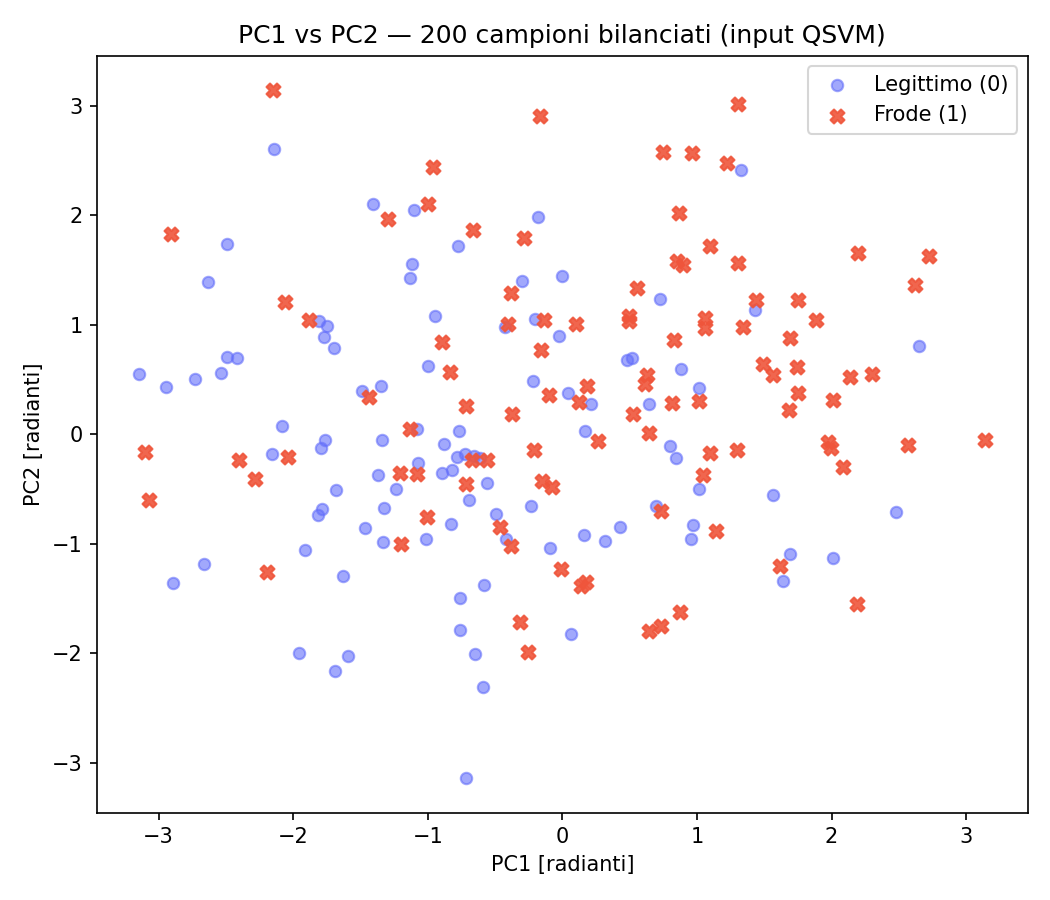
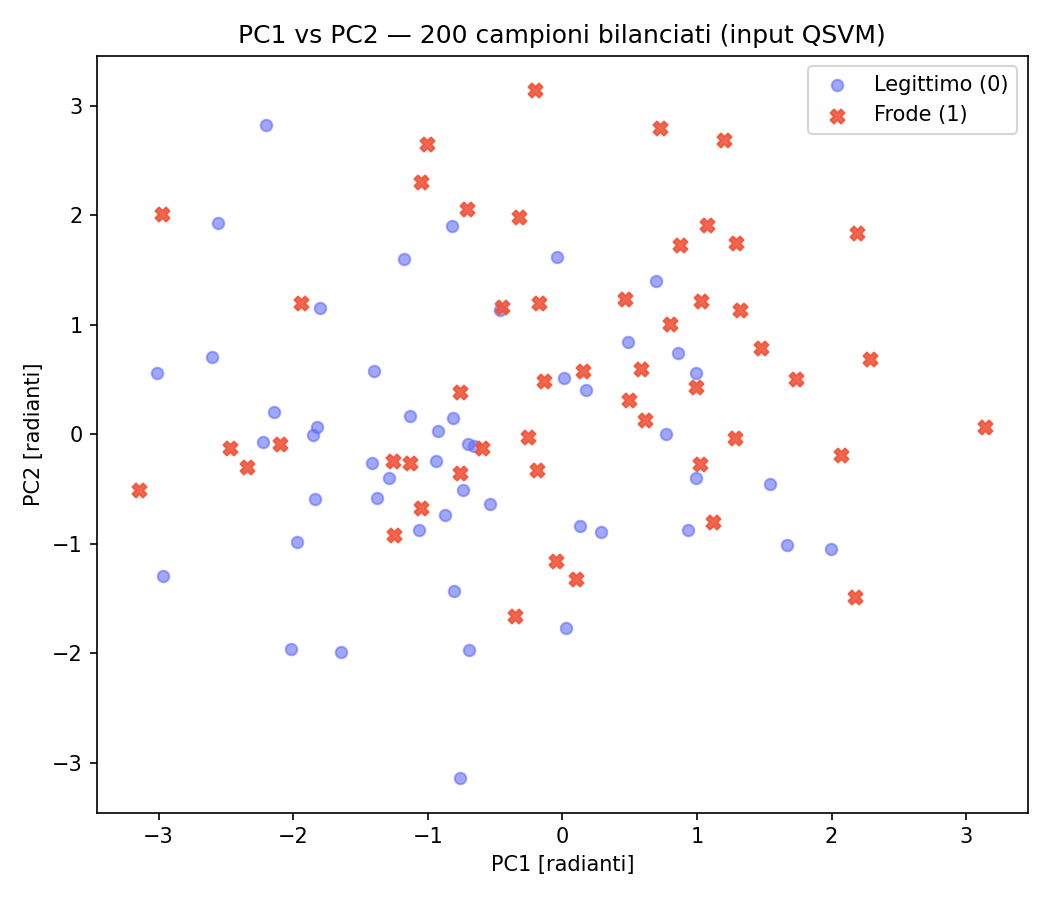
first run

diff --git a/qsvm_baf_pipeline.py b/qsvm_baf_pipeline.py
@@ -152,7 +152,7 @@ print("\n" + "=" * 70)
 print("BLOCCO 5 — BILANCIAMENTO CLASSI (100 per classe)")
 print("=" * 70)
 
-N_CLASS = 100  # per classe → 200 totali (limite simulatore QSVM)
+N_CLASS = 50  # per classe → 200 totali (limite simulatore QSVM)
 
 df_pca = pd.DataFrame(X_pca, columns=[f"PC{i+1}" for i in range(N_QUBITS)])
 df_pca["fraud_bool"] = y.values
@@ -217,28 +217,11 @@ print("BLOCCO 8 — QUANTUM KERNEL: ZZFeatureMap + FidelityQuantumKernel")
 print("=" * 70)
 
 from qiskit.circuit.library import ZZFeatureMap
-from qiskit_machine_learning.kernels import FidelityQuantumKernel
-from qiskit_machine_learning.state_fidelities import ComputeUncompute
+from qiskit import transpile
+from qiskit_aer import AerSimulator
+import itertools
 
-# ── Selezione automatica della primitiva Sampler compatibile ─────────────────
-# qiskit-machine-learning richiede il Sampler V1 (interfaccia legacy).
-# Proviamo in ordine:
-#   1. qiskit_aer.primitives.Sampler  → più veloce, usa AerSimulator
-#   2. qiskit.primitives.Sampler      → fallback statevector puro (più lento)
-try:
-    from qiskit_aer.primitives import Sampler as AerSampler
-    sampler = AerSampler()
-    sampler_name = "AerSampler (qiskit-aer)"
-except Exception:
-    from qiskit.primitives import Sampler as QiskitSampler
-    sampler = QiskitSampler()
-    sampler_name = "StatevectorSampler (qiskit fallback)"
-print(f"[SAMPLER] Usando: {sampler_name}")
-
-# 8a. Definizione della ZZFeatureMap
-# - feature_dimension = 4  → 4 qubit (= numero di PC)
-# - reps = 2               → due ripetizioni del layer di entanglement
-# - entanglement = 'linear' → CNOT tra qubit adiacenti (i, i+1)
+# ── 8a. ZZFeatureMap ─────────────────────────────────────────────────────────
 feature_map = ZZFeatureMap(
     feature_dimension=N_QUBITS,
     reps=2,
@@ -247,38 +230,97 @@ feature_map = ZZFeatureMap(
 print("ZZFeatureMap creata:")
 print(feature_map.decompose())
 
-# 8b. FidelityQuantumKernel
-# Il kernel quantistico è definito come:
-#   K(xi, xj) = |<Φ(xi)|Φ(xj)>|²
-# dove |Φ(x)> = feature_map(x)|0...0>
-# ComputeUncompute implementa il circuito "inversion test":
-#   1. Prepara |Φ(xi)>           applicando feature_map(xi) a |0...0>
-#   2. Applica feature_map†(xj)  (circuito inverso con parametri xj)
-#   3. Misura P(|0000>) = fidelity = K(xi, xj)
-fidelity = ComputeUncompute(sampler=sampler)
-qkernel = FidelityQuantumKernel(
-    feature_map=feature_map,
-    fidelity=fidelity
-)
+# ── 8b. Backend AerSimulator ─────────────────────────────────────────────────
+backend = AerSimulator(method="statevector")
+N_SHOTS = 8192   # shots per stima della fidelity
 
-# 8d. Calcolo matrice kernel
-# NOTA: O(N²) circuiti → per N=150 train = 11.325 esecuzioni
+def compute_kernel_entry(xi, xj, feature_map, backend, shots=N_SHOTS):
+    """
+    Calcola K(xi, xj) = P(|00...0>) tramite il circuito compute-uncompute.
+    Pipeline manuale:
+      1. Assegna xi alla feature_map  → U(xi)
+      2. Assegna xj alla feature_map  → U(xj), poi prende U†(xj)
+      3. Compone U(xi) · U†(xj) e aggiunge misure
+      4. Esegue su AerSimulator e legge P(000...0)
+    """
+    # Parametri della feature_map
+    params = feature_map.parameters
+
+    # Circuito per xi
+    circ_xi = feature_map.assign_parameters(dict(zip(params, xi)))
+
+    # Circuito inverso per xj
+    circ_xj_inv = feature_map.assign_parameters(dict(zip(params, xj))).inverse()
+
+    # Circuito compute-uncompute
+    from qiskit import QuantumCircuit
+    n = feature_map.num_qubits
+    qc = QuantumCircuit(n, n)
+    qc.compose(circ_xi,     inplace=True)
+    qc.compose(circ_xj_inv, inplace=True)
+    qc.measure(range(n), range(n))
+
+    # Transpile e run
+    qc_t = transpile(qc, backend, optimization_level=0)
+    job  = backend.run(qc_t, shots=shots)
+    counts = job.result().get_counts()
+
+    # P(|00...0>) = fidelity ≈ K(xi, xj)
+    zero_state = "0" * n
+    return counts.get(zero_state, 0) / shots
+
+
+def compute_kernel_matrix(X_a, X_b, feature_map, backend,
+                          shots=N_SHOTS, symmetric=False):
+    """
+    Calcola la matrice kernel K[i,j] = compute_kernel_entry(X_a[i], X_b[j]).
+    Se symmetric=True sfrutta K[i,j]=K[j,i] dimezzando le computazioni.
+    """
+    n_a, n_b = len(X_a), len(X_b)
+    K = np.zeros((n_a, n_b))
+
+    if symmetric:
+        # Solo triangolo superiore + diagonale
+        pairs = [(i, j) for i in range(n_a) for j in range(i, n_b)]
+        total = len(pairs)
+        for idx, (i, j) in enumerate(pairs):
+            if idx % 100 == 0:
+                print(f"  Progresso: {idx}/{total} coppie ({idx/total*100:.1f}%)",
+                      end="\r", flush=True)
+            val = compute_kernel_entry(X_a[i], X_b[j], feature_map, backend, shots)
+            K[i, j] = val
+            K[j, i] = val
+        print(f"  Completato: {total}/{total} coppie (100.0%)        ")
+    else:
+        total = n_a * n_b
+        for idx, (i, j) in enumerate(itertools.product(range(n_a), range(n_b))):
+            if idx % 100 == 0:
+                print(f"  Progresso: {idx}/{total} coppie ({idx/total*100:.1f}%)",
+                      end="\r", flush=True)
+            K[i, j] = compute_kernel_entry(X_a[i], X_b[j],
+                                            feature_map, backend, shots)
+        print(f"  Completato: {total}/{total} coppie (100.0%)        ")
+    return K
+
+
+# ── 8c. Calcolo K_train ───────────────────────────────────────────────────────
 print(f"\nCalcolo kernel matrix train ({X_train.shape[0]}x{X_train.shape[0]})...")
-print("  [Questo può richiedere 5-20 min su simulatore locale]")
-K_train = qkernel.evaluate(x_vec=X_train)
+print(f"  N° coppie uniche: {X_train.shape[0]*(X_train.shape[0]+1)//2}")
+print(f"  Shots per coppia: {N_SHOTS}")
+print(f"  Stima tempo      : ~{X_train.shape[0]*(X_train.shape[0]+1)//2 * 0.008 / 60:.0f}-"
+      f"{X_train.shape[0]*(X_train.shape[0]+1)//2 * 0.02 / 60:.0f} min")
+K_train = compute_kernel_matrix(X_train, X_train, feature_map, backend, symmetric=True)
 print(f"  K_train shape: {K_train.shape}")
 
+# ── 8d. Calcolo K_test ────────────────────────────────────────────────────────
 print(f"\nCalcolo kernel matrix test ({X_test.shape[0]}x{X_train.shape[0]})...")
-K_test = qkernel.evaluate(x_vec=X_test, y_vec=X_train)
+K_test = compute_kernel_matrix(X_test, X_train, feature_map, backend, symmetric=False)
 print(f"  K_test shape: {K_test.shape}")
 
-# Verifica proprietà della matrice kernel:
-# - deve essere simmetrica: K[i,j] = K[j,i]
-# - valori in [0, 1] (è una fidelity/probabilità)
-# - diagonale = 1 (K(x,x) = 1 per ogni x)
-print(f"  Diagonale media: {np.diag(K_train).mean():.4f} (atteso: ~1.0)")
-print(f"  Simmetria max diff: {np.max(np.abs(K_train - K_train.T)):.6f}")
-print(f"  Range valori: [{K_train.min():.4f}, {K_train.max():.4f}]")
+# ── 8e. Verifica proprietà ────────────────────────────────────────────────────
+print(f"  Diagonale media  : {np.diag(K_train).mean():.4f} (atteso: ~1.0)")
+print(f"  Simmetria max err: {np.max(np.abs(K_train - K_train.T)):.6f}")
+print(f"  Range valori     : [{K_train.min():.4f}, {K_train.max():.4f}]")
 
 # ─────────────────────────────────────────────────────────────────────────────
 # BLOCCO 9 ── ADDESTRAMENTO SVM CON KERNEL PRECOMPUTED